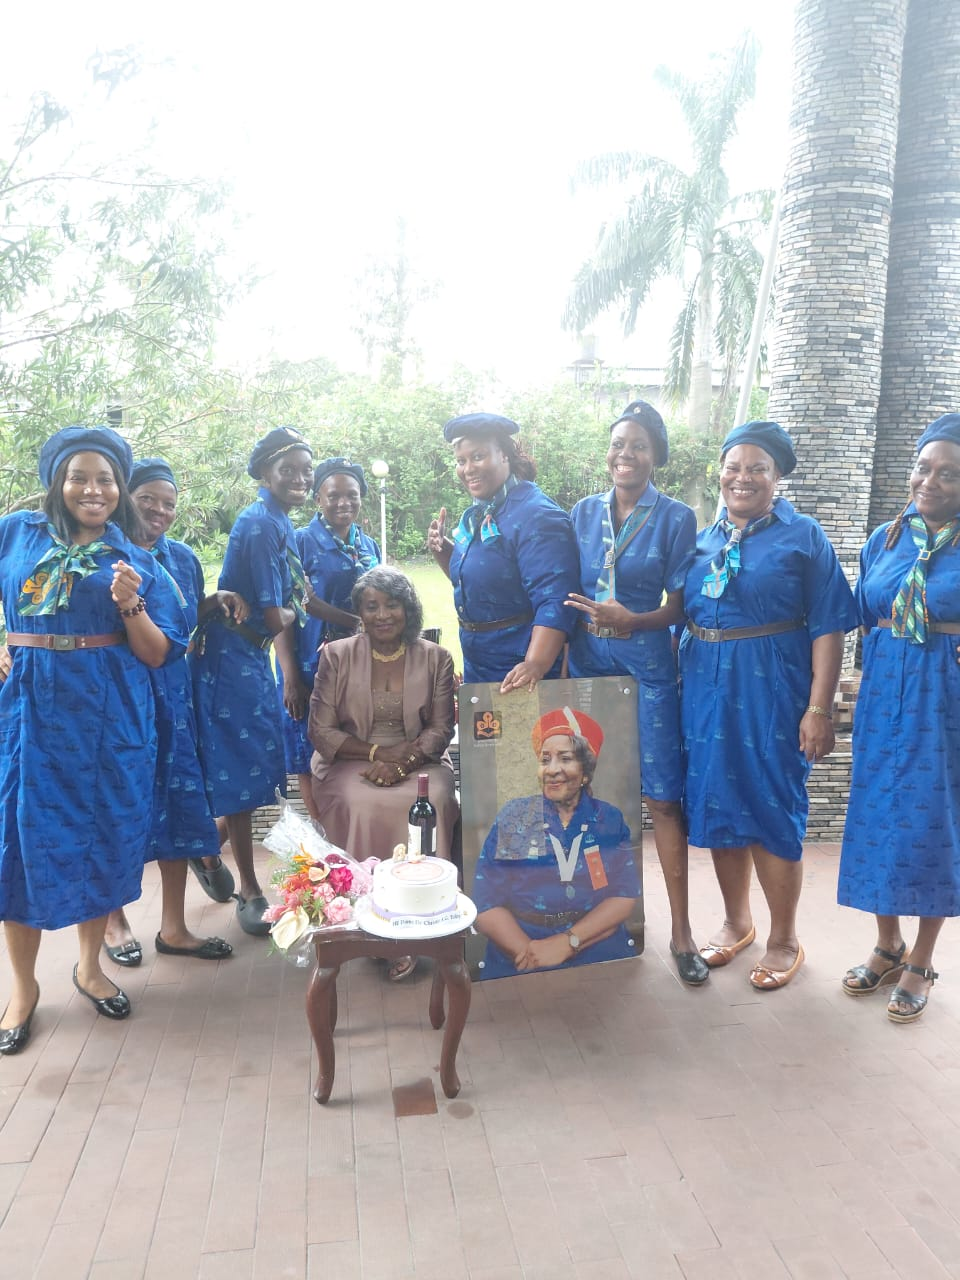
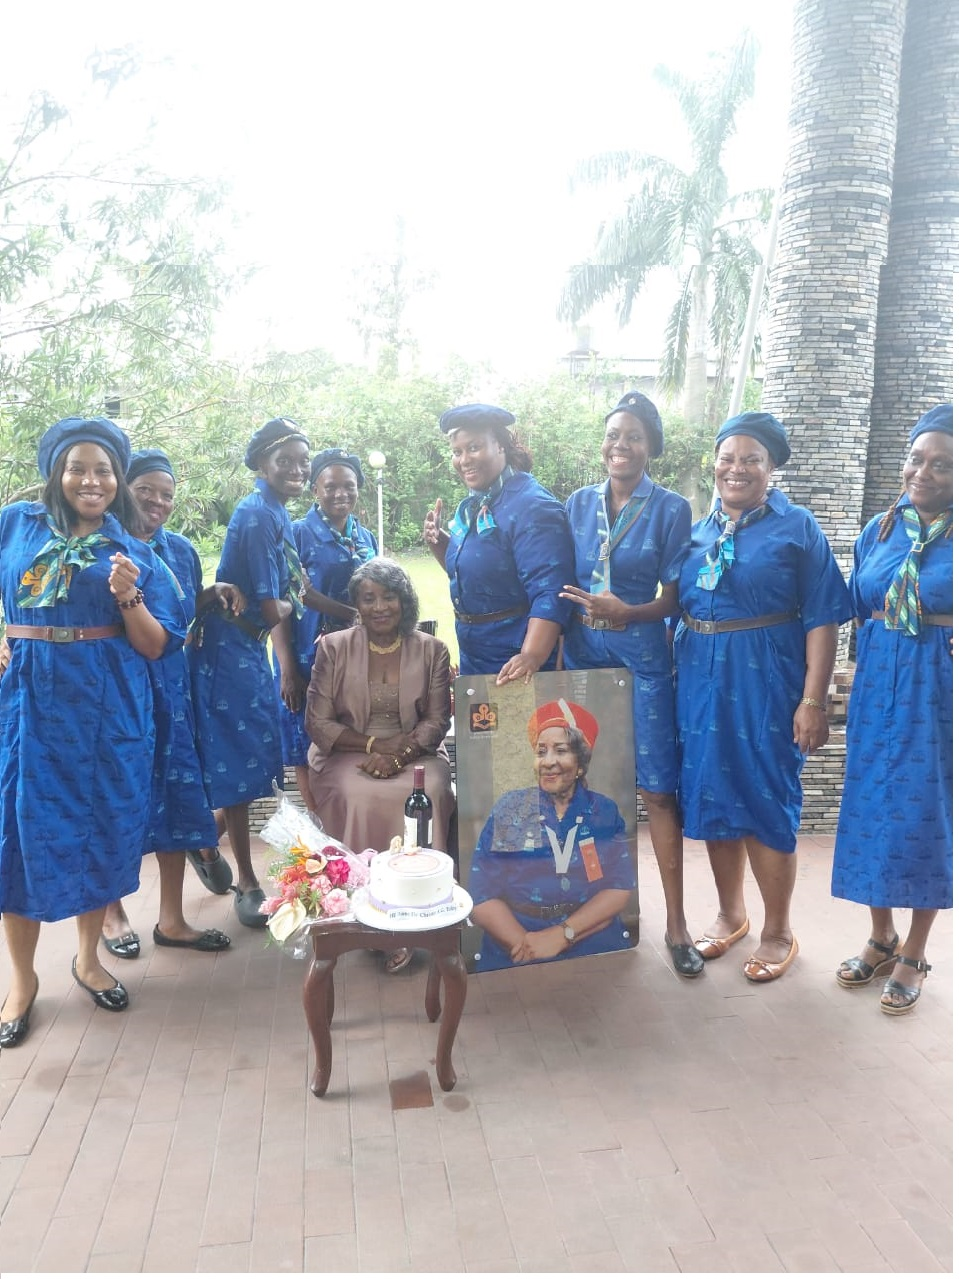
added new images and made changes to wordings in through out the site

Changed region(s): [[0.0, 0.122, 1.0, 1.0], [0.0605, 0.8233, 0.0907, 0.8538]]

diff --git a/src/utils/gallery.js b/src/utils/gallery.js
@@ -1,15 +1,40 @@
 import assetMap from "./img";
 
-// ── Helper: grab all keys that belong to a folder ─────────────────────────────
+// ── Helpers ───────────────────────────────────────────────────────────────────
+// Images: all jpg/jpeg/png keys under a folder (excludes video-named files)
 function folderImages(folderName) {
-  return Object.keys(assetMap)
-    .filter((k) => k.startsWith(`${folderName}/`))
-    .sort()
-    .map((k) => ({ key: k, src: assetMap[k] }));
+  return Object.entries(assetMap)
+    .filter(([k]) => {
+      if (!k.startsWith(`${folderName}/`)) return false;
+      // exclude mp4/video keys — they contain "vid" in the filename
+      const filename = k.split('/').pop();
+      return !filename.includes('vid');
+    })
+    .sort(([a], [b]) => a.localeCompare(b))
+    .map(([key, src]) => ({ key, src }));
+}
+
+// Videos: all mp4 keys under a folder — filename contains "vid"
+function folderVideos(folderName, title) {
+  return Object.entries(assetMap)
+    .filter(([k]) => {
+      if (!k.startsWith(`${folderName}/`)) return false;
+      const filename = k.split('/').pop();
+      return filename.includes('vid');
+    })
+    .sort(([a], [b]) => a.localeCompare(b))
+    .map(([key, src]) => ({ key, src, title }));
 }
 
 // ── Events ────────────────────────────────────────────────────────────────────
 export const galleryEvents = [
+  {
+    id: "cambodia",
+    title: "Nigerian Delegation at the 39th WAGGGS World Conference",
+    description:
+      "🇳🇬 Nigerian Delegation Arrives in Cambodia for the 39th WAGGGS World Conference 🇰🇭 After an extensive journey of over 22 hours, the Nigerian delegation has safely arrived in Siem Reap, Cambodia, to participate in the 39th World Conference of the World Association of Girl Guides and Girl Scouts (WAGGGS). We are deeply grateful for a safe and successful journey and excited to join fellow Girl Guides and Girl Scouts from across the globe. The Conference provides a unique platform to exchange ideas, share experiences, strengthen global partnerships, learn from one another, and contribute to important discussions that will shape the future of our Movement. The Nigerian delegation comprises: Deaconess Rhoda Olufunmilola Thomas – Chief Commissioner, Head of Delegation | Mrs. Tejiri Okeregbe, MNIM – International Commissioner, Delegate | Ms. Afomachi Obiora – Young Leader, Observer | Dr. Kalalali Asimini-Hart – State Commissioner, Delegate Observer | Mrs. Asmau Nephatiti Aliyu – National Youth Commissioner, International Service Team (IST).",
+    images: folderImages("cambodia"),
+  },
   {
     id: "thinking-day",
     title: "World Thinking Day 100th Anniversary",
@@ -41,24 +66,29 @@ export const galleryEvents = [
 ];
 
 // ── Videos pool ───────────────────────────────────────────────────────────────
-export const videoItems = [
-  { key: "vid-01", title: "Camp Life" },
-  { key: "vid-02", title: "Sisterhood" },
-  { key: "vid-03", title: "Badge Work" },
-  { key: "vid-04", title: "Leadership" },
-  { key: "vid-05", title: "Community Service" },
-  { key: "vid-06", title: "Outdoor Adventure" },
-  { key: "vid-07", title: "Ceremony" },
-  { key: "vid-08", title: "The Promise" },
-  { key: "vid-09", title: "Guiding Moments" },
-  { key: "vid-10", title: "Our Sisterhood" },
-];
-
-export const resolvedVideoItems = videoItems.map((v) => ({
+const mainVideos = [
+  { key: "vid-01", },
+  { key: "vid-02", },
+  { key: "vid-03", },
+  { key: "vid-04", },
+  { key: "vid-05", },
+  { key: "vid-06", },
+  { key: "vid-07", },
+  { key: "vid-08", },
+  { key: "vid-09", },
+  { key: "vid-10"  },
+].map((v) => ({
   ...v,
   src: assetMap[`videos/${v.key}`] ?? assetMap[v.key] ?? null,
 }));
 
-// ── Legacy exports (kept for backward compat) ─────────────────────────────────
+const cambodiaVideos = folderVideos("cambodia", "Cambodia — WAGGGS World Conference");
+
+export const resolvedVideoItems = [
+  ...mainVideos,
+  ...cambodiaVideos,
+].filter((v) => v.src);
+
+// ── Legacy exports ────────────────────────────────────────────────────────────
 export const galleryItems = [];
 export const resolvedGalleryItems = [];

diff --git a/src/components/Hero.jsx b/src/components/Hero.jsx
@@ -5,10 +5,10 @@ import assetMap from '../utils/img'
 const tiles = [
   // top row — keep these (no X)
   { src: assetMap['Thinking day/thinking-day-08'], h: 'h-40' },
-  { src: assetMap['Birthday/birthday-02'],         h: 'h-28' },
+  { src: assetMap['cambodia/cambodia-07'],         h: 'h-28' },
   { src: assetMap['Thanksgiving/thanksgiving-01'], h: 'h-36' },
   // middle row — replace with new images
-  { src: assetMap['softcare'],  h: 'h-28' },
+  { src: assetMap['softcare'],  h: 'h-28', pos: 'object-center' },
   { src: assetMap['talk'],      h: 'h-40' },
   { src: assetMap['marching'],  h: 'h-32' },
   // bottom row — replace with new images
@@ -31,7 +31,7 @@ export default function Hero() {
             <span className="text-white">REDEFINED.</span>
           </h1>
           <p className="text-gray-400 text-lg max-w-md mb-8 leading-relaxed">
-            A movement of girls and women across 30 states, building leadership, life skills and citizenship — one Promise, one badge, one Good Turn at a time. We are for any girl, and every girl.
+            A movement of girls and women across 34 states, building leadership, life skills and citizenship — one Promise, one badge, one Good Turn at a time. We are for any girl, and every girl.
           </p>
           <div className="flex flex-wrap gap-4">
             <a href="#contact" className="bg-white text-black px-8 py-3.5 rounded-full font-bold text-sm hover:opacity-80 transition-opacity flex items-center gap-2 uppercase">
@@ -48,7 +48,7 @@ export default function Hero() {
               <img
                 src={item.src}
                 alt="NGGA"
-                className="w-full h-full object-cover object-bottom hover:scale-110 transition-transform duration-500"
+                className={`w-full h-full object-cover ${item.pos ?? 'object-top'} hover:scale-110 transition-transform duration-500`}
               />
             </div>
           ))}

diff --git a/src/components/MakeGuiding.jsx b/src/components/MakeGuiding.jsx
@@ -1,7 +1,7 @@
 const stats = [
-  ['30', 'States Nationwide'],
+  ['34', 'States Nationwide'],
   ['10M+', 'Guides Worldwide'],
-  ['150+', 'Countries'],
+  ['156', 'Countries'],
   ['WAGGGS', 'Member Body'],
   ['Non-Profit', 'Since Founding'],
 ]
@@ -33,7 +33,7 @@ export default function MakeGuiding() {
         </div>
 
         <p className="text-gray-400 max-w-2xl mx-auto mb-8 text-base sm:text-lg px-2">
-          We believe growth happens through doing. NGGA gives girls and young women dynamic, value-based training in life skills, leadership and citizenship — connecting every guide to a sisterhood of over 10 million guides across more than 150 countries.
+          We believe growth happens through doing. NGGA gives girls and young women dynamic, value-based training in life skills, leadership and citizenship — connecting every guide to a sisterhood of over 10 million guides across more than 156 countries.
         </p>
 
         {/* Stats bar */}

diff --git a/src/components/CTASection.jsx b/src/components/CTASection.jsx
@@ -33,7 +33,7 @@ export default function CTASection() {
               <span className="text-black">be a Guide.</span>
             </h2>
             <p className="text-white/80 text-lg leading-relaxed max-w-md mb-8">
-              Join a sisterhood that spans 30 states and over 10 million girls worldwide.
+              Join a sisterhood that spans 34 states and over 10 million girls worldwide.
               Learn, lead, speak out and serve — starting today.
             </p>
           </div>

diff --git a/src/components/Footer.jsx b/src/components/Footer.jsx
@@ -9,7 +9,7 @@ export default function Footer() {
           <img src={logoImg} alt="NGGA Logo" className="h-14 w-auto object-contain mb-3" />
           <h2 className="text-3xl font-black mt-3 mb-2">Be Prepared.</h2>
           <p className="text-gray-500 text-sm leading-relaxed max-w-[260px]">
-            The Nigerian Girl Guides Association — a member of the World Association of Girl Guides and Girl Scouts, guiding girls and young women across 30 states.
+            The Nigerian Girl Guides Association — a member of the World Association of Girl Guides and Girl Scouts, guiding girls and young women across 34 states.
           </p>
         </div>
         <div>

diff --git a/src/components/LearnLeadConnect.jsx b/src/components/LearnLeadConnect.jsx
@@ -26,6 +26,8 @@ export default function LearnLeadConnect() {
                 HONOR
                 <br />
                 I PROMISE
+                <br />
+                TO DO MY BEST.
               </h3>
             </div>
           </div>

diff --git a/src/components/Marquee.jsx b/src/components/Marquee.jsx
@@ -7,7 +7,7 @@ export default function Marquee() {
         <div className="flex gap-8 whitespace-nowrap marquee-track">
           {[1, 2].map(i => (
             <span key={i} className="font-black text-2xl uppercase flex items-center gap-8 flex-shrink-0">
-              NATIONWIDE <IconArrowRight size={22} /> GIRL LED <IconArrowRight size={22} /> VALUES BASED <IconArrowRight size={22} /> ACROSS 30 STATES <IconArrowRight size={22} /> JOIN US → JOIN US → JOIN
+              NATIONWIDE <IconArrowRight size={22} /> GIRL LED <IconArrowRight size={22} /> VALUES BASED <IconArrowRight size={22} /> ACROSS 34 STATES <IconArrowRight size={22} /> JOIN US → JOIN US → JOIN
             </span>
           ))}
         </div>

diff --git a/src/pages/AboutPage.jsx b/src/pages/AboutPage.jsx
@@ -55,7 +55,7 @@ export default function AboutPage() {
               We are a uniform Association. We have hierarchy starting from: Chief Commissioner, Deputy Chief Commissioner, National Officers, State Commissioners, Assistant State commissioner, Divisional Commissioner, District commissioners, Guiders, Rangers, Guides and Brownies.
             </p>
             <p className="text-gray-400 leading-relaxed">
-              NGGA works with young girls and women across 30 States in Nigeria, we learn through our non-formal educational programs.
+              NGGA works with young girls and women across 34 States in Nigeria, we learn through our non-formal educational programs.
             </p>
           </div>
 